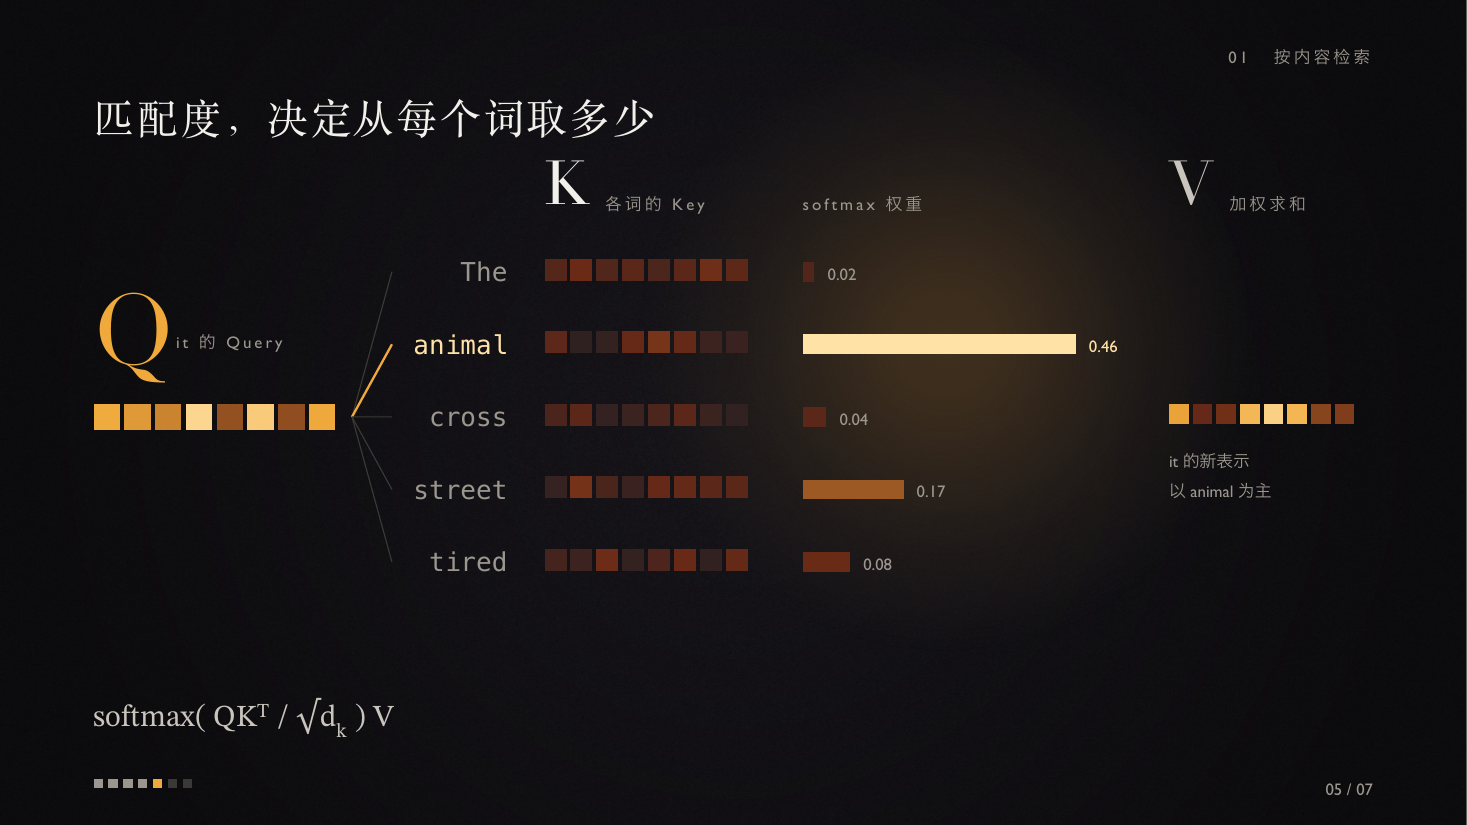
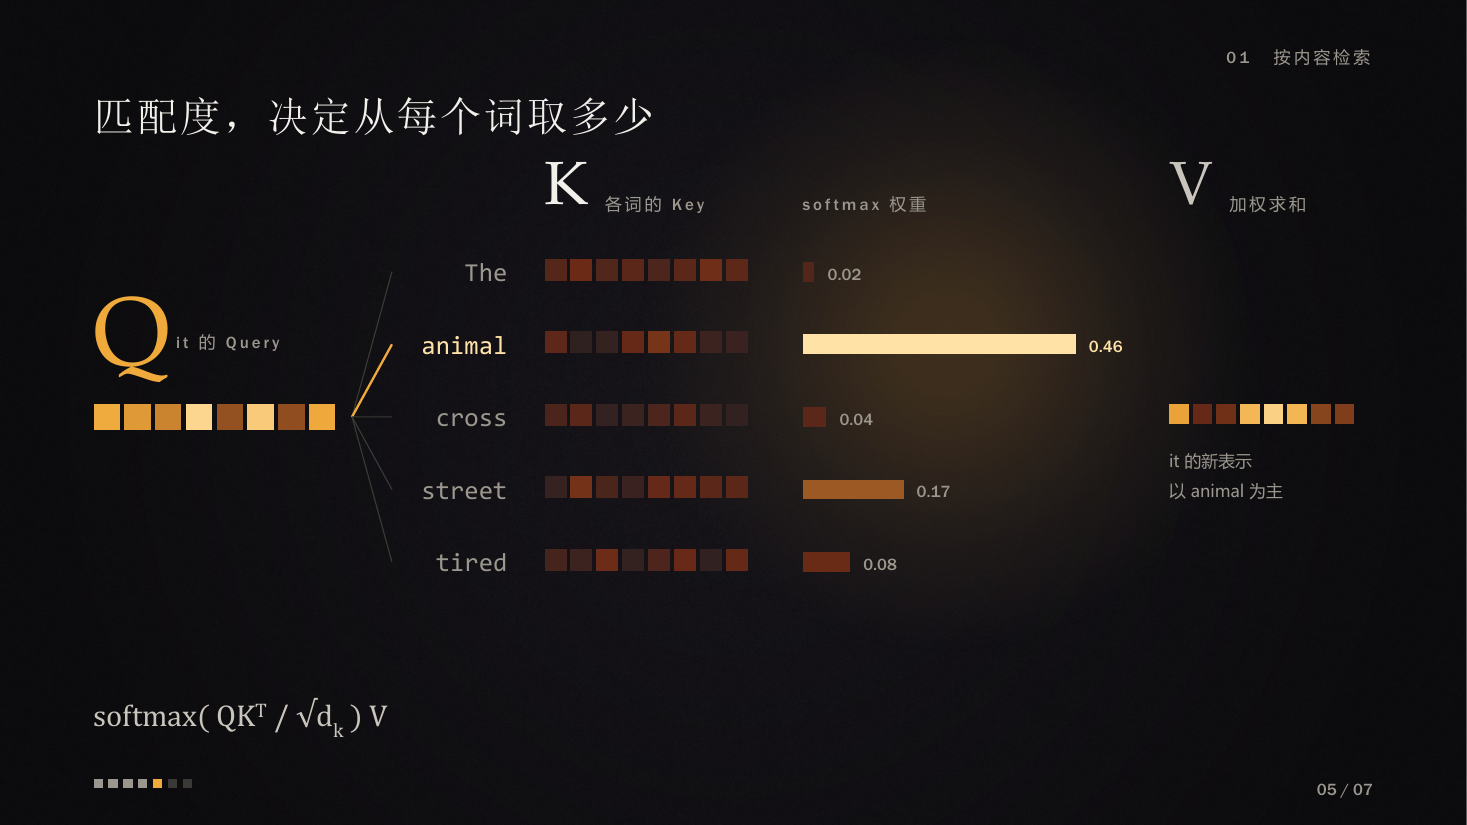
feat(examples): attention example in cross-platform fonts
SimSun headlines, Palatino Linotype letters and numbers, Franklin Gothic
labels, Microsoft YaHei body, Consolas prompt, Cambria Math formula.

diff --git a/examples/attention/theme.js b/examples/attention/theme.js
@@ -1,5 +1,6 @@
-// Design tokens — "暗室之光": attention is light finding pattern in a dark, lawless room. Typography: T1 "电影片头" (Songti headlines with wide tracking, Didot for Latin letters, Bodoni 72 for numbers, Gill Sans labels)
-// The example sentence is set as a prompt typed to the model (Menlo), with a prompt mark and a cursor.
+// Design tokens — "暗室之光": attention is light finding pattern in a dark, lawless room. Typography: "电影片头" (SimSun headlines with wide tracking,
+// Palatino Linotype for Latin letters and numbers, Franklin Gothic labels), cross-platform (typography.md).
+// The example sentence is set as a prompt typed to the model (Consolas), with a prompt mark and a cursor.
 // One world for the whole deck: warm charcoal with grain, lit by whatever the page is about. Amber heat is the only color.
 module.exports = {
   name: 'Light in the Dark',
@@ -18,18 +19,16 @@ module.exports = {
     ember: '6B2A16',     // dim heat
     glow: '4A3820',      // the light pool on each page's focus (k.light)
   },
-  target: 'mac', // macOS fonts: shown from a Mac with PowerPoint (typography.md)
   fonts: {
-    head: 'Songti SC',
-    sans: 'Hiragino Sans GB',
-    latin: 'Didot',
-    latinLight: 'Didot',
-    numeral: 'Bodoni 72', // Didot's digits are oldstyle in PowerPoint; Bodoni 72's are lining everywhere
-    label: 'Gill Sans',
-    prompt: 'Menlo', // the example sentence: a prompt typed to the model
-    mono: 'Menlo',
+    head: 'SimSun', // large sizes only: thin strokes go faint when small
+    sans: 'Microsoft YaHei',
+    latin: 'Palatino Linotype',
+    numeral: 'Palatino Linotype', // lining digits
+    label: 'Franklin Gothic Medium',
+    prompt: 'Consolas', // the example sentence: a prompt typed to the model
+    mono: 'Consolas',
   },
-  fontPairs: { 'Songti SC': 'Didot', 'Hiragino Sans GB': 'Gill Sans' }, // family names only
+  fontPairs: { SimSun: 'Palatino Linotype' }, // family names only
   // The room: base + very fine grain + darkened corners. The light itself is a shape (k.light) on each page's focus,
   // so it can glide between pages with Morph.
   backgroundImages: { paper: 'assets/room.jpg' },
@@ -45,7 +44,7 @@ module.exports = {
     word: { font: 'prompt', size: 20, leading: 1.2, color: 'stone' },
     letter: { font: 'latin', size: 64, leading: 1, color: 'ink' },
     number: { font: 'numeral', size: 120, leading: 1, color: 'accent' },
-    math: { font: 'STIX Two Math', size: 22, leading: 1.2, color: 'graphite' },
+    math: { font: 'Cambria Math', size: 22, leading: 1.2, color: 'graphite' },
   },
   chart: { series: ['accent', 'stone'] },
   transition: { type: 'morph', duration: 1400 }, // every page: the light glides to the next focus

diff --git a/examples/attention/parts.js b/examples/attention/parts.js
@@ -49,7 +49,7 @@ function matrix(k, { x, y, n, cell, gap, weight, build }) {
 
 // Lay the example sentence out on one line, centred, as a monospaced prompt; returns x/width/centre per token.
 function sentence(k, { size = 20, gap = 0.26 } = {}) {
-  const ws = TOKENS.map((t) => t.length * 0.602 * size / 72); // Menlo advance ≈ 0.6 em
+  const ws = TOKENS.map((t) => t.length * 0.55 * size / 72); // Consolas advance = 0.55 em
   const total = ws.reduce((a, b) => a + b, 0) + gap * (TOKENS.length - 1);
   let x = (k.W - total) / 2 + 0.275; // centre the prompt mark + sentence together
   return ws.map((w) => { const p = { x, w, cx: x + w / 2 }; x += w + gap; return p; });

diff --git a/examples/attention/design-notes.md b/examples/attention/design-notes.md
@@ -17,12 +17,11 @@
 
 | 角色 | 字体 | 说明 |
 |---|---|---|
-| 标题 | 宋体，字距 +5–8% | 电影片头的感觉 |
-| 大号西文、Q/K/V | Didot | 高反差衬线，在暗场里像被光切出来的；只用于大字号 |
-| 大号数字 | Bodoni 72 | 同属高反差衬线；Didot 的数字在 PowerPoint 里是旧式数字，Bodoni 72 两边都是等高数字 |
-| 小字、标签、页码 | Gill Sans | 线条均匀，投影时小字不会糊 |
-| 正文 | 冬青黑体 | |
-| 例句（prompt） | Menlo | 像输入给模型的一句话 |
+| 标题 | 宋体（SimSun），字距 +5–8% | 电影片头的感觉；只用于大字号，小字笔画会发虚 |
+| 大号西文、Q/K/V、大号数字 | Palatino Linotype | 古典衬线，与宋体同属书卷气；数字是等高数字 |
+| 小字、标签、页码 | Franklin Gothic Medium | 笔画稍重，暗底上投影时小字不会糊 |
+| 正文 | 微软雅黑 | |
+| 例句（prompt） | Consolas | 像输入给模型的一句话 |
 
 结构层：右上角章节标记、左下角进度格、右下角页码；S03 的旗标标注（竖线，和斜向的弧线区分开）；S04 的尺寸线。
 
